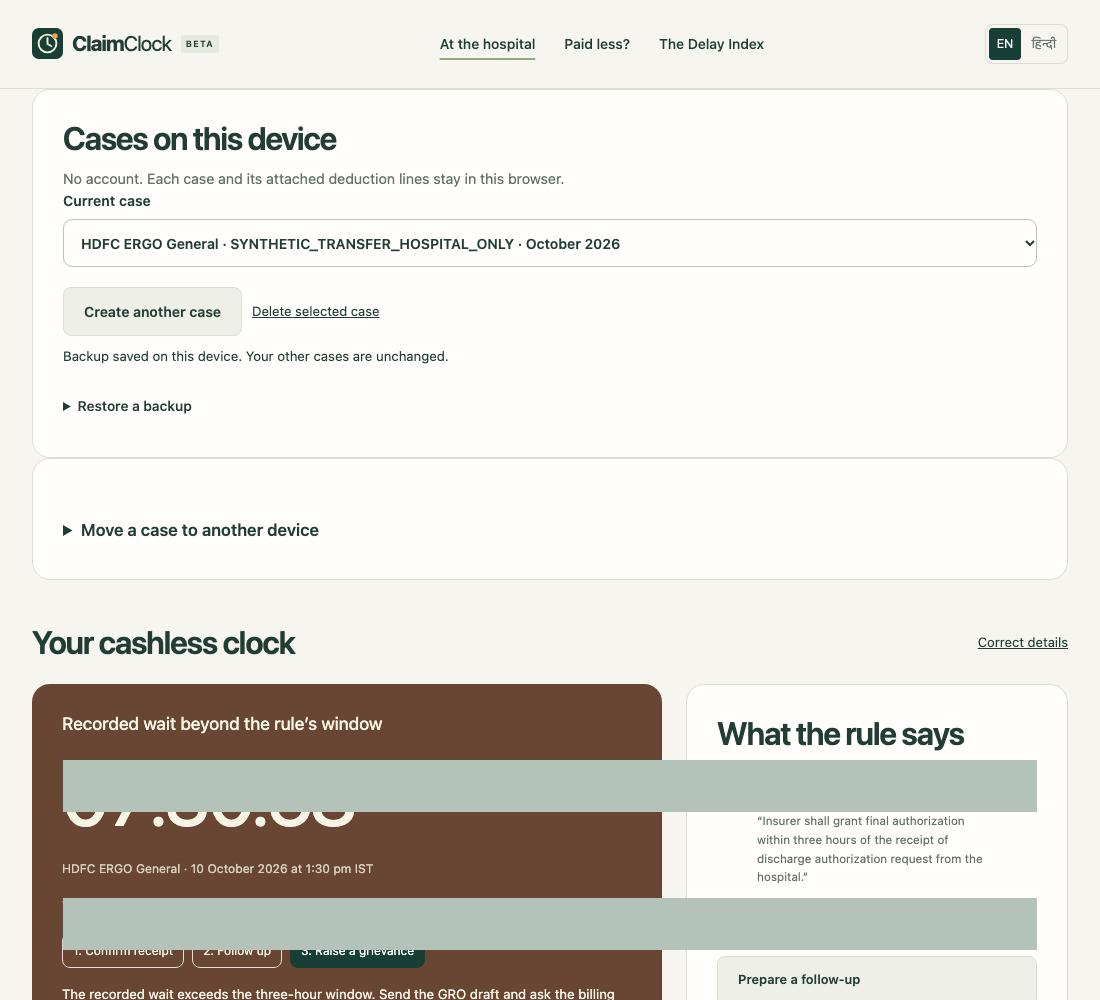
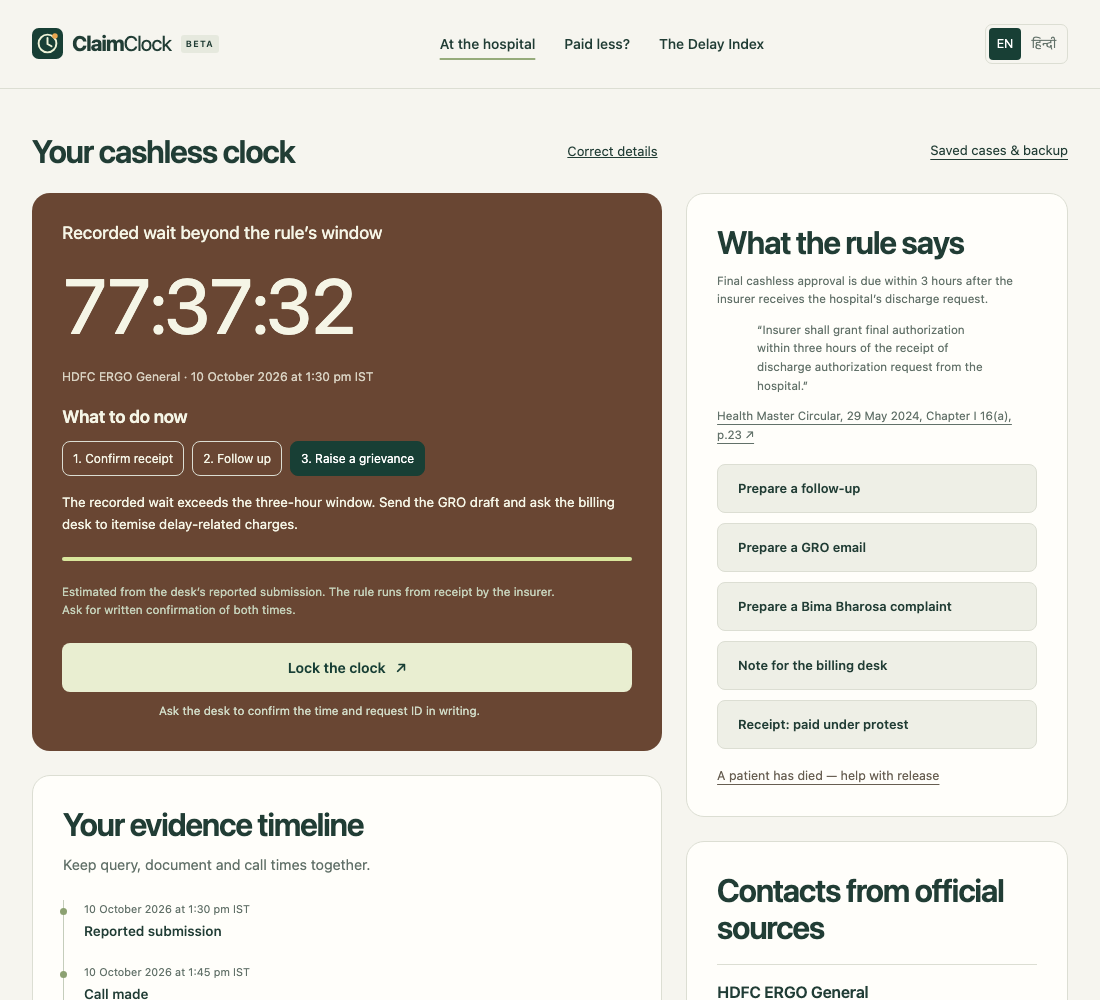
M14: start form first on the home page; suggest deduction lines from extracted text

diff --git a/src/lib/deductions.ts b/src/lib/deductions.ts
@@ -49,6 +49,34 @@ export function classify(input:DeductionInput):Deduction {
  }
  return {...input,category,status,ruleIds,explanation,explanation_hi};
 }
+export type SuggestedLine={description:string;amount:number};
+// Lines that carry a figure but are not deductions: bill totals, approved/paid amounts, identifiers and dates.
+const SUGGEST_SKIP=/total bill|bill amount|gross bill|hospital bill|amount payable|net payable|payable amount|net amount|approved amount|amount approved|claimed amount|claim amount|amount claimed|sum insured|amount paid|paid amount|settled amount|settlement amount|balance|grand total|^\s*(?:[-•*]\s*)?total\b|total deduction|sub-?total|policy (?:no|number)|claim (?:no|number|id)|uhid|member (?:id|no)|mobile|phone|e-?mail|date of|admission|discharge date|dob\b|invoice|receipt|gstin|\bpan\b|ifsc|account (?:no|number)|cheque|utr\b|neft|rtgs|pin ?code|reference/i;
+const SUGGEST_HINT=/deduct|disallow|not payable|non[- ]?payable|non[- ]?medical|non[- ]?admissible|inadmissible|consumable|disposable|proportion|co-?pay|sub-?limit|capping|\bcap\b|reasonable|customary|\bR&C\b|exclu|not covered|implant|room rent|room eligib|package|less\b|short|reduc|adjust/i;
+const CURRENCY_AMOUNT=/(?:₹|rs\.?|inr)\s*:?\s*([\d,]+(?:\.\d{1,2})?)(?:\/-)?/gi;
+const BARE_AMOUNT=/(?<![\d,.\/%-])(\d{1,2}(?:,\d{2})*,\d{3}(?:\.\d{1,2})?|\d{1,3}(?:,\d{3})+(?:\.\d{1,2})?|\d{3,8}(?:\.\d{1,2})?)(?:\/-)?(?![\d,.%\/-])/g;
+const toAmount=(text:string)=>{const grouping=/^\d+(?:\.\d{1,2})?$/.test(text)||/^\d{1,3}(?:,\d{3})+(?:\.\d{1,2})?$/.test(text)||/^\d{1,2}(?:,\d{2})*,\d{3}(?:\.\d{1,2})?$/.test(text);const amount=Number(text.replace(/,/g,''));return grouping&&Number.isFinite(amount)&&amount>=1&&amount<=1e8?amount:null;};
+// Deterministic, on-device: pull "reason + rupee amount" candidates out of extracted or pasted settlement text.
+// Totals, paid amounts and identifiers are skipped; bare numbers count only on lines that read like a deduction
+// or inside a "Deductions" section. Every candidate is still shown to the user for correction before review.
+export function suggestLinesFromText(text:string):SuggestedLine[] {
+ const out:SuggestedLine[]=[],seen=new Set<string>();let inSection=false;
+ for(const raw of text.split(/\r?\n/)){
+  const line=raw.replace(/\s+/g,' ').trim();if(!line)continue;
+  const hasFigure=/\d/.test(line);
+  if(!hasFigure){if(/deduct|disallow|not payable|non[- ]?payable/i.test(line))inSection=true;else if(/^(?:amount payable|net payable|total|summary|note|remarks|terms)/i.test(line))inSection=false;continue;}
+  if(SUGGEST_SKIP.test(line)){if(/^\s*(?:[-•*]\s*)?total|amount payable|net payable/i.test(line))inSection=false;continue;}
+  let amountText:string|null=null,token='';
+  for(const match of line.matchAll(CURRENCY_AMOUNT)){amountText=match[1];token=match[0];}
+  if(!amountText&&(inSection||SUGGEST_HINT.test(line)))for(const match of line.matchAll(BARE_AMOUNT)){amountText=match[1];token=match[0];}
+  if(!amountText)continue;const amount=toAmount(amountText);if(amount===null)continue;
+  const description=line.replace(token,' ').replace(/^(?:\d{1,2}[.)]|[-•*])\s+/,'').replace(/[\s:–—|,-]+$/,'').replace(/\s+/g,' ').trim().slice(0,120);
+  if(!/[A-Za-z\u0900-\u097F]{3}/.test(description))continue;
+  const key=`${description.toLowerCase()}|${amount}`;if(seen.has(key))continue;seen.add(key);out.push({description,amount});if(out.length===30)break;
+ }
+ return out;
+}
+export const formatSuggestedLines=(lines:SuggestedLine[])=>lines.map(l=>`${l.description} | ${l.amount}`).join('\n');
 export function parseManualLines(value:string):{inputs:DeductionInput[];errors:number[]} {
  const inputs:DeductionInput[]=[],errors:number[]=[];
  value.split(/\r?\n/).forEach((line,i)=>{if(!line.trim())return;const match=line.match(/^(.+?)\s*(?:\||\t|\s{2,})\s*(?:₹|Rs\.?|INR)?\s*([\d,]+(?:\.\d{1,2})?)\s*$/i);if(!match){errors.push(i+1);return;}

diff --git a/src/lib/deduction-ui.ts b/src/lib/deduction-ui.ts
@@ -1,6 +1,6 @@
 import contactsRaw from '../../data/contacts.json';import rulesRaw from '../../data/rules.json';
 import consumables from '../../data/consumables.json';
-import type {Contact,Rule,Letter} from './types';import {classify,parseManualLines,verdictTotals,type Deduction,type DeductionInput} from './deductions';
+import type {Contact,Rule,Letter} from './types';import {classify,parseManualLines,verdictTotals,suggestLinesFromText,formatSuggestedLines,type Deduction,type DeductionInput} from './deductions';
 import {knownIdentifiers,redact} from './redact';import {lang,t,setMessage} from './i18n';import {makeDeductionLetter} from './deduction-letter';
 import {setupLetterDialog} from './letter-dialog';import {download,listCases,saveDeductions,storageIssue} from './storage';import type {CaseBackup} from './backup';import {reminders} from './reminders';import {getTurnstileToken} from './turnstile';
 
@@ -13,9 +13,22 @@ function append(parent:HTMLElement,tag:string,text:string,className=''){const n=
 const normalized=(s:string)=>s.toUpperCase().replace(/\s+/g,' ').trim();
 async function read(file:File){
  if(processing){setMessage(el('extract-status'),'deductions.wait');return;}processing=true;
- try{const {extractFile}=await import('./extract');const text=await extractFile(file,(key,fields)=>setMessage(el('extract-status'),key,fields));const box=el<HTMLTextAreaElement>('extracted-text');box.value+=(box.value?'\n\n':'')+text;el<HTMLDetailsElement>('extracted-details').open=true;setMessage(el('extract-status'),'deductions.readDone');}
+ try{const {extractFile}=await import('./extract');const text=await extractFile(file,(key,fields)=>setMessage(el('extract-status'),key,fields));const box=el<HTMLTextAreaElement>('extracted-text');box.value+=(box.value?'\n\n':'')+text;el<HTMLDetailsElement>('extracted-details').open=true;setMessage(el('extract-status'),'deductions.readDone');suggestLines();}
  catch(e){setMessage(el('extract-status'),e instanceof Error&&'translationKey' in e&&String(e.translationKey).startsWith('extract.')?String(e.translationKey):'deductions.readFailed');}finally{processing=false;}
 }
+// On-device only: propose "reason | amount" lines from the extracted or pasted text so the user corrects
+// instead of retyping. Existing lines are kept; identical candidates are not added twice.
+function suggestLines(){
+ const text=el<HTMLTextAreaElement>('extracted-text').value,status=el('suggest-status');
+ if(!text.trim()){setMessage(status,'deductions.suggestEmpty');return;}
+ const box=el<HTMLTextAreaElement>('deduction-lines');
+ const existing=new Set(parseManualLines(box.value).inputs.map(d=>`${d.description.toLowerCase()}|${d.amount}`));
+ const fresh=suggestLinesFromText(text).filter(l=>!existing.has(`${l.description.toLowerCase()}|${l.amount}`));
+ if(!fresh.length){setMessage(status,'deductions.suggestNone');return;}
+ box.value=(box.value.trim()?`${box.value.trimEnd()}\n`:'')+formatSuggestedLines(fresh);
+ setMessage(status,'deductions.suggested',{count:fresh.length});
+}
+el('suggest-lines').addEventListener('click',()=>{suggestLines();el('deduction-lines').scrollIntoView({block:'center'});});
 for(const id of ['settlement-file','bill-file','policy-file'])el<HTMLInputElement>(id).addEventListener('change',()=>{const file=el<HTMLInputElement>(id).files?.[0];if(file)void read(file);});
 function render(preserveControls=false){
  deductions=inputs.map(classify);el('deduction-results').hidden=!deductions.length;const cards=el('deduction-cards');const reuse=preserveControls&&cards.childElementCount===deductions.length;if(!reuse)cards.replaceChildren();

diff --git a/tests/deductions.test.ts b/tests/deductions.test.ts
@@ -1,7 +1,7 @@
 import test from 'node:test';
 import assert from 'node:assert/strict';
 import {readFileSync} from 'node:fs';
-import {classify,parseManualLines,verdictTotals} from '../src/lib/deductions.ts';
+import {classify,parseManualLines,verdictTotals,suggestLinesFromText,formatSuggestedLines} from '../src/lib/deductions.ts';
 import type {Category,DeductionStatus,DeductionInput} from '../src/lib/deductions.ts';
 import {knownIdentifiers,redact} from '../src/lib/redact.ts';
 import {reminders} from '../src/lib/reminders.ts';
@@ -132,4 +132,39 @@ test('ICS output uses folded CRLF lines and preserves necessary escaped punctuat
  assert.ok(ics.includes('\r\n '));assert.ok(unfold(ics).includes('response\\; consider'));
  assert.ok(unfold(ics).includes('Information\\, not legal advice.'));
  assert.ok(!ics.includes('DEMO-POL'));
+});
+
+const syntheticLetter=`SYNTHETIC HEALTH INSURANCE COMPANY LIMITED
+Claim Settlement Letter
+Claim No: 1234567 Policy No: 30425678 Patient: Synthetic Person UHID 998877
+Hospital: Synthetic Hospital, Pune Admission: 05/10/2026 Discharge: 08/10/2026
+Total Bill Amount: Rs. 3,64,000
+DEDUCTION DETAILS
+Room Rent proportionate deduction as per policy room eligibility Rs. 10,000
+Surgeon fee reduced in proportion to room rent eligibility  15,000
+Non payable items (gloves, gauze, surgical tape, gown) as per Annexure I Rs. 4,476/-
+Co-payment 10% as per policy terms INR 12,000.50
+Reasonable and customary charges - OT charges ₹ 8,000
+Total Deductions: Rs. 49,476
+Amount Payable: Rs. 3,14,524
+Please quote claim number 1234567 in all correspondence. Helpline 1800 123 4567.`;
+
+test('suggestLinesFromText finds deduction lines and skips totals, identifiers and dates',()=>{
+ const found=suggestLinesFromText(syntheticLetter);
+ assert.deepEqual(found.map(l=>l.amount),[10000,15000,4476,12000.5,8000]);
+ assert.equal(found[0].description,'Room Rent proportionate deduction as per policy room eligibility');
+ assert.equal(found[2].description,'Non payable items (gloves, gauze, surgical tape, gown) as per Annexure I');
+ assert.equal(found[3].description,'Co-payment 10% as per policy terms');
+ assert.equal(found[4].description,'Reasonable and customary charges - OT charges');
+ const text=JSON.stringify(found);
+ for(const forbidden of ['364000','49476','314524','1234567','30425678','998877','1800'])assert.ok(!text.includes(forbidden),`must not treat ${forbidden} as a deduction`);
+ const parsed=parseManualLines(formatSuggestedLines(found));
+ assert.deepEqual(parsed.errors,[]);assert.equal(parsed.inputs.length,5);assert.equal(parsed.inputs[3].amount,12000.5);
+});
+
+test('suggestLinesFromText ignores bare numbers outside deduction context and dedupes repeats',()=>{
+ assert.deepEqual(suggestLinesFromText('Room 402 on the 3rd floor\nBed charges for 5 days\nReport generated 13/10/2026 at 10:45'),[]);
+ const repeated=suggestLinesFromText('Non-medical items disallowed Rs 500\nNon-medical items disallowed Rs 500\nImplant cost not payable 25000');
+ assert.deepEqual(repeated,[{description:'Non-medical items disallowed',amount:500},{description:'Implant cost not payable',amount:25000}]);
+ assert.deepEqual(suggestLinesFromText(''),[]);
 });

diff --git a/RESUME.md b/RESUME.md
@@ -108,3 +108,12 @@ Current public build **`4e06cdf5ccb69460`**, manual Worker version `c8d0fdca-a67
 **167 unit tests, 69 selected public Chromium scenarios, and 23 public WebKit scenarios pass**, plus lint, type/data, reviewed license and 42-page CSP gates. Mobile Lighthouse **97/100/100/100**; installed-worker update toast and second navigation pass. Real native Safari report acceptance/erasure, AI and three decrypt previews passed on the pre-fix M12 build, separately labelled; final two-context transfer round-trip uses mocks. Four production-positive automation flows remain excluded. IRDAI still returns504 after the correct source302. Preserve the distinctions in qa/review-native.json and qa/m13-browser.json.
 
 Do not promise atomic localStorage transactions: baseline checks prevent the demonstrated stale writes, but simultaneous cross-renderer read/write is not serialized. Native phone keyboard and VoiceOver/TalkBack acceptance remain unverified. Native Safari AX omitted an otherwise visible restore modal; isolated WebKit snapshots and keyboard interaction pass. Historical evidence is retained, with M13 artifacts and screenshots named separately. All review test data was synthetic; report was erased and transfer's three permitted lookups exhausted.
+
+## M14 — user-journey fixes (independent review, 13 October 2026)
+
+A walk-through as a first-time visitor on a phone found two usability problems and fixed them in source:
+
+- The home page opened with "Cases on this device", backup and encrypted-transfer controls above the hero and start form; "Start my clock" sat about three screens down. Those blocks (`#unsaved-receipts`, `#local-cases`, `<Transfer />`) now render after the clock dashboard. The start card links to them ("Already have a case on another phone…"), and the active-clock header has a "Saved cases & backup" link. All element ids are unchanged; the local-cases, transfer, picker, hindi and core browser suites pass against the rebuilt site.
+- After scanning or pasting a settlement letter the user still had to retype every line as `reason | amount`. `suggestLinesFromText()` (src/lib/deductions.ts, on-device, deterministic) now proposes lines from the extracted text, skipping bill totals, paid amounts, identifiers and dates; it runs automatically after a successful read and from the "Find deduction lines in this text" button, never overwriting existing lines. Unit tests cover extraction, skipping and deduplication in both grouping styles.
+
+Nothing server-side changed. Bilingual strings added for both features.
